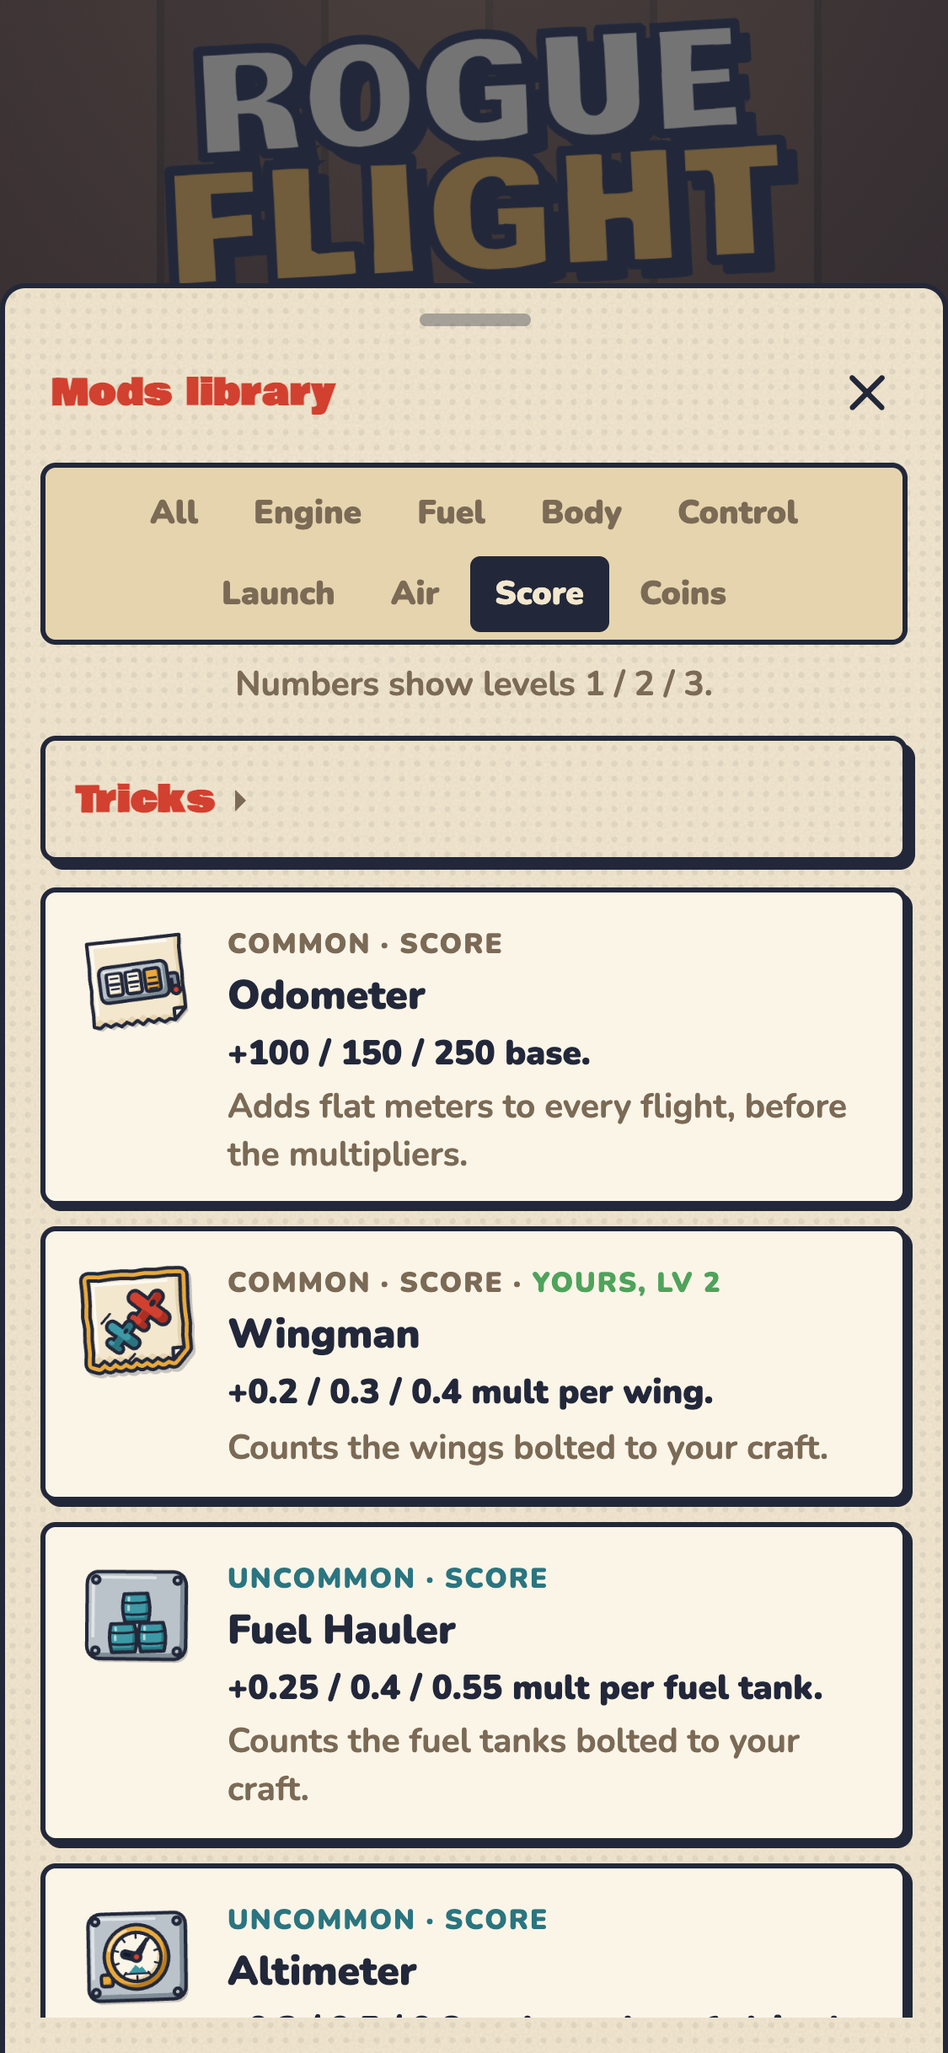
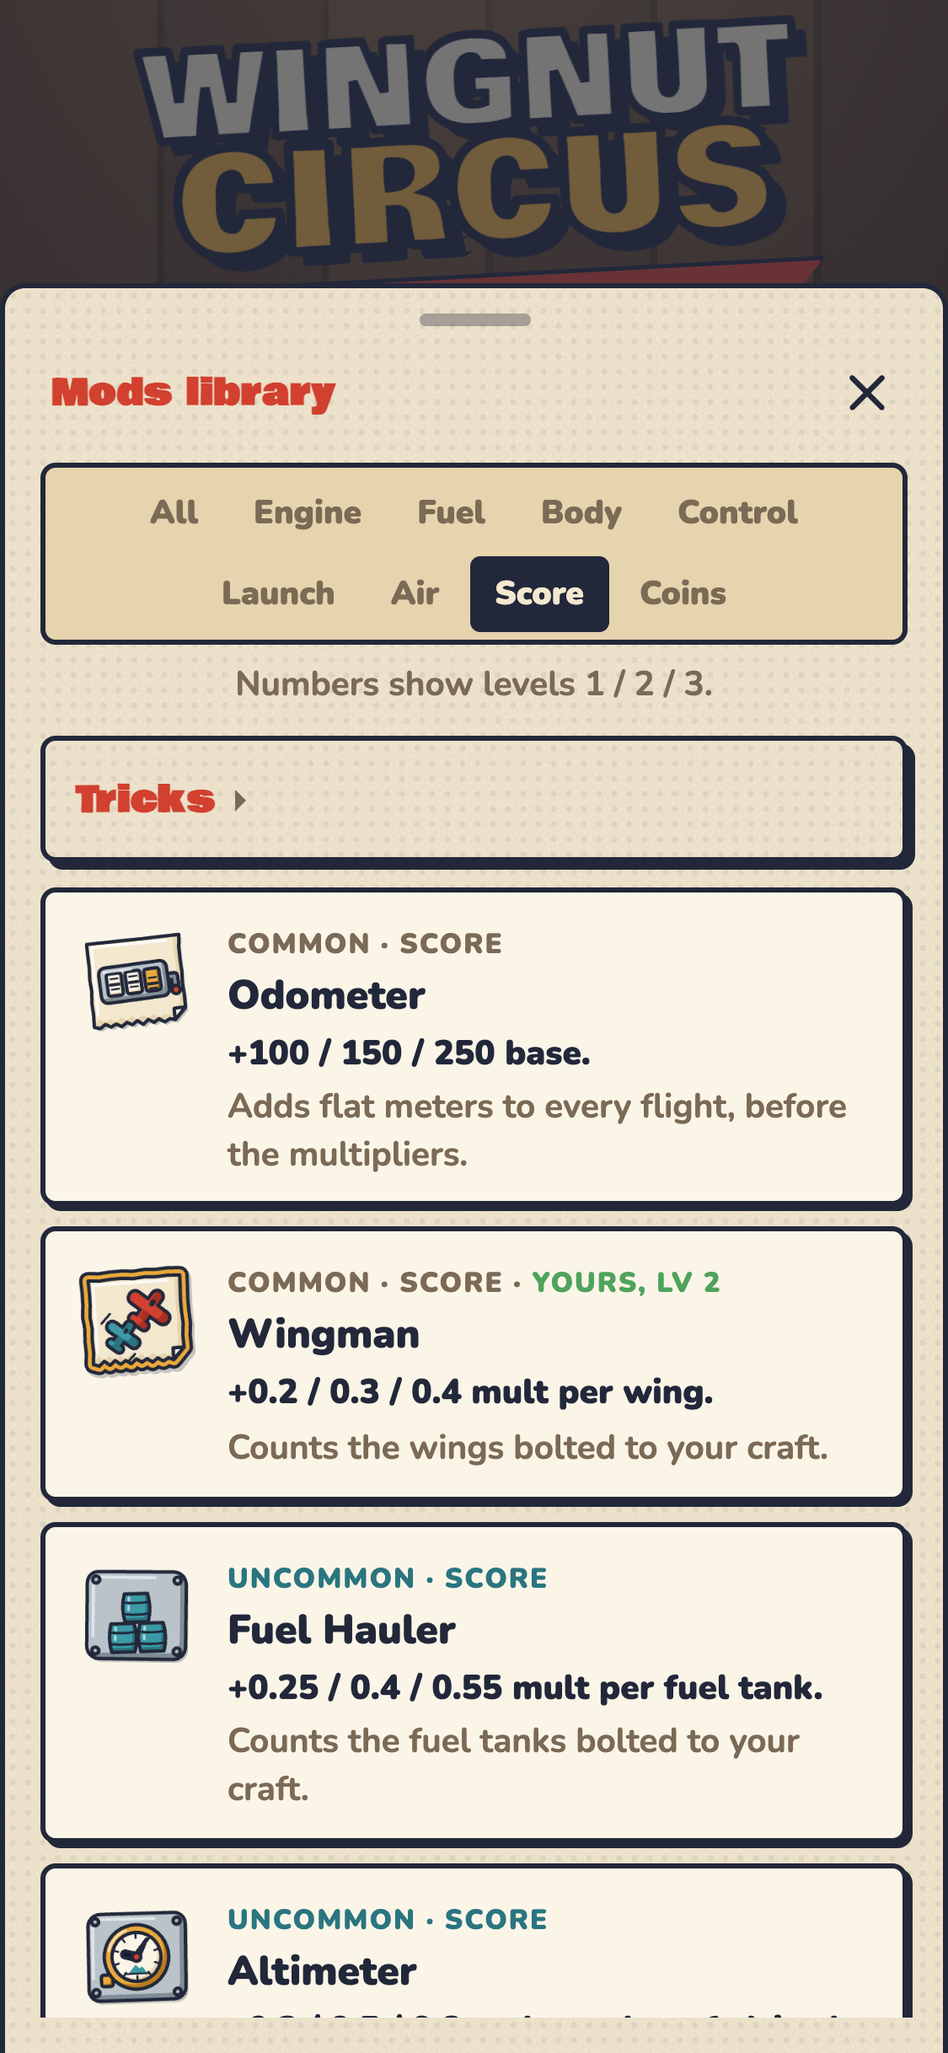
Rename to Wingnut Circus (0.3.0)
- new wordmark logo (WINGNUT / CIRCUS), page title, manifest, share text, itch cover and screenshots
- game server deployed as wingnutcircus-server; the old rogueflight-server stays up for older installs
- save hand-over for the coming domain move (MOVED in ui.js, #move= fragment import)
- storage keys, D1 database and Pages project keep the rogueflight id so saves and data carry over

Changed region(s): [[0.1244, 0.0, 0.8711, 0.156]]

diff --git a/client/src/ui.js b/client/src/ui.js
@@ -1,4 +1,4 @@
-// rogueflight UI: hangar (build / shop / mods), flight rendering + input, results and run screens.
+// Wingnut Circus UI: hangar (build / shop / mods), flight rendering + input, results and run screens.
 import {
   GIMBAL, NEUT, PAR, VAC, VAC2, C_LIGHT, G0, COLS,
   ROWS, COCKPIT, MAXMODS, FLIGHTS, CONTRACTS, FLIGHT_TIME, clamp, PARTS, PALETTE,
@@ -24,9 +24,14 @@ import { townOf, showTitle, headline } from './fiction.js';
 import { initGuide, openGuide } from './guide.js';
 
 /* ================= persistence ================= */
-const KEY='rogueflight-1';
+const KEY='rogueflight-1'; // storage keys keep the game's original id (RogueFlight) so saves survive the rename
 const META0={runs:0,wins:0,bestStage:0,bestFlight:0,deepest:0,level:0};
 // save.run: the main run; save.daily: a daily or random puzzle in progress; save.online: the run of the live room save.room
+// arriving from the old address (see MOVED): take over the save it handed over in the URL fragment, unless this
+// browser already has one here. The fragment never reaches any server.
+{const m=location.hash.match(/^#move=(.+)$/);if(m){try{const d=JSON.parse(decodeURIComponent(escape(atob(m[1]))));
+  for(const [k,v] of [[KEY,d.save],['rogueflight-client',d.client],['rogueflight-audio',d.audio]])if(v&&!localStorage.getItem(k))localStorage.setItem(k,v)}catch(_){}
+  history.replaceState(null,'',location.pathname+location.search)}}
 let save=(()=>{try{const s=JSON.parse(localStorage.getItem(KEY)||'null');if(s&&s.meta)return {meta:{...META0,...s.meta},run:s.run||null,daily:s.daily||null,online:s.online||null,room:s.room||null}}catch(e){}return {meta:{...META0},run:null,daily:null,online:null,room:null}})();
 if(save.daily&&save.daily.phase==='done')save.daily=null;
 function persist(){try{localStorage.setItem(KEY,JSON.stringify(save))}catch(e){}}
@@ -55,19 +60,21 @@ const metaOf=r=>r&&r.mode&&r.mode!=='run'?{bestStage:CONTRACTS,level:0}:save.met
 const esc=t=>String(t==null?'':t).replace(/[&<>"]/g,c=>({'&':'&amp;','<':'&lt;','>':'&gt;','"':'&quot;'}[c]));
 let armAbandon=false;
 function runCode(r){if(!r)return '';const L=t=>t==='cockpit'?'c':t[0];
-  return 'ROGUEFLIGHT '+JSON.stringify({lvl:r.level,cleared:r.stage,boons:r.boons||{},endless:!!r.endless,coins:r.coins,mods:r.mods.map(id=>{const L=modLevels(r)[id];return L>1?id+':'+L:id}),tune:r.tune,inv:r.inv,
+  return JSON.stringify({lvl:r.level,cleared:r.stage,boons:r.boons||{},endless:!!r.endless,coins:r.coins,mods:r.mods.map(id=>{const L=modLevels(r)[id];return L>1?id+':'+L:id}),tune:r.tune,inv:r.inv,
     cells:r.cells.map(c=>L(c.type)+c.c+c.r).join(' '),log:r.log.map(l=>[l.stage+1,l.flight,l.score,l.d,l.x,l.s||null]),ev:r.ev||[]})}
 // telemetry: after every flight and when a run ends, the run goes to /api/run (a Pages Function storing it in D1, one row
 // per run, updated in place) for balancing. Each flight carries a snapshot (build, score lines, height, speed, how it
 // ended); ev lists purchases, sales, rerolls, packs and storm rewards. Anonymous: a random id per browser and the run code.
 // Production builds only.
 // the game's home: copies hosted elsewhere (itch.io, a future app) send telemetry and invite links here
-const HOME='https://rogueflight.pages.dev', ATHOME=/(^|\.)rogueflight\.pages\.dev$|^localhost$|^127\.0\.0\.1$/.test(location.hostname);
+// MOVED: once the new domain serves the game, set it here; the old address then sends players over with their save
+const HOME='https://rogueflight.pages.dev', MOVED=null,
+  ATHOME=/(^|\.)rogueflight\.pages\.dev$|(^|\.)wingnutcircus\.com$|^localhost$|^127\.0\.0\.1$/.test(location.hostname);
 const homeURL=p=>(ATHOME?location.origin:HOME)+p;
 function clientId(){try{let id=localStorage.getItem('rogueflight-client');if(!id){id=Math.random().toString(36).slice(2)+Date.now().toString(36);localStorage.setItem('rogueflight-client',id)}return id}catch(_){return ''}}
 function reportRun(r,finished){
   if(!import.meta.env.PROD||!r||!r.log.length)return;
-  try{const data={...JSON.parse(runCode(r).slice('ROGUEFLIGHT '.length)),weather:r.weather,seed:r.seed};const mode=r.mode||'run';
+  try{const data={...JSON.parse(runCode(r)),weather:r.weather,seed:r.seed};const mode=r.mode||'run';
     // beacons cap at 64 KB: very long endless runs keep snapshots for their last 100 flights only
     if(JSON.stringify(data).length>55000)data.log=data.log.map((l,i,a)=>i<a.length-100?l.slice(0,5):l);
     const body=JSON.stringify({client:clientId(),run_id:clientId()+':'+mode+':'+r.seed,mode,version:__VERSION__+'+'+__BUILD__,level:r.level,cleared:r.stage,endless:!!r.endless,
@@ -908,7 +915,7 @@ function completeDaily(r){
   const m=save.meta;
   if(r.ranked){m.daily=m.daily||{};m.daily[r.day]={score:r.total};m.dailyEver=true;
     const keys=Object.keys(m.daily).map(Number).sort((a,b)=>b-a);for(const k of keys.slice(7))delete m.daily[k];
-    m.dailyPending={day:r.day,score:r.total,data:JSON.parse(runCode(r).slice('ROGUEFLIGHT '.length))}}
+    m.dailyPending={day:r.day,score:r.total,data:JSON.parse(runCode(r))}}
   persist();
 }
 // a ranked score waits in meta.dailyPending until the server has it (offline phones send it later)
@@ -1037,7 +1044,7 @@ function showLobby(){
     <button class="ghost" id="rLeave" type="button">Leave</button>`;
   veil.hidden=false;
   $('rShare').onclick=()=>{const b=$('rShare');const done=()=>{b.textContent='Link copied'};
-    try{if(navigator.share)navigator.share({title:'RogueFlight',text:'Fly with me! Room '+R0.code,url:link}).catch(()=>{});else navigator.clipboard.writeText(link).then(done,()=>{b.textContent=link})}catch(_){b.textContent=link}};
+    try{if(navigator.share)navigator.share({title:'Wingnut Circus',text:'Fly with me! Room '+R0.code,url:link}).catch(()=>{});else navigator.clipboard.writeText(link).then(done,()=>{b.textContent=link})}catch(_){b.textContent=link}};
   $('rMode').onclick=e=>{const b=e.target.closest('button');if(b&&host)NET.send({t:'mode',mode:b.dataset.m})};
   const nm=$('rName');nm.onchange=()=>{const n=nm.value.trim().slice(0,16);if(!n)return;save.meta.name=n;persist();NET.send({t:'hello',id:clientId(),name:n})};
   if($('rBot'))$('rBot').onclick=()=>NET.send({t:'addbot'});
@@ -1196,6 +1203,9 @@ syncSound();
 if(import.meta.env.DEV)window.__rf={F:()=>F,R,frame:n=>frame(n)};
 
 /* ================= boot ================= */
+// moving house: the old address sends players to the new one, carrying their save in the URL fragment
+if(MOVED&&location.hostname==='rogueflight.pages.dev'){let p='';try{p=btoa(unescape(encodeURIComponent(JSON.stringify({save:localStorage.getItem(KEY),
+  client:localStorage.getItem('rogueflight-client'),audio:localStorage.getItem('rogueflight-audio')}))))}catch(_){}location.replace(MOVED+'/'+location.search+(p?'#move='+p:''))}
 show('title');renderTitle();
 // an invite link (?room=CODE) drops straight into that room's lobby
 {const q=new URLSearchParams(location.search).get('room');if(q&&/^[A-Za-z]{4}$/.test(q)){history.replaceState(null,'',location.pathname);joinRoom(q.toUpperCase())}}

diff --git a/client/index.html b/client/index.html
@@ -3,8 +3,8 @@
 <head>
 <meta charset="utf-8">
 <meta name="viewport" content="width=device-width,initial-scale=1,viewport-fit=cover,user-scalable=no">
-<title>RogueFlight</title>
-<meta name="description" content="Roguelite flying-machine builder: build, fly, hit the quota.">
+<title>Wingnut Circus</title>
+<meta name="description" content="Wingnut Circus: bolt together a junk plane, fly it with honest physics, hit each town's score target. A roguelite for phones.">
 <meta name="theme-color" content="#33200f">
 <link rel="manifest" href="/manifest.webmanifest">
 <link rel="icon" href="/icons/favicon-32.png" type="image/png" sizes="32x32">
@@ -14,13 +14,13 @@
 <meta name="apple-mobile-web-app-capable" content="yes">
 <meta name="mobile-web-app-capable" content="yes">
 <meta name="apple-mobile-web-app-status-bar-style" content="black-translucent">
-<meta name="apple-mobile-web-app-title" content="RogueFlight">
+<meta name="apple-mobile-web-app-title" content="Wingnut Circus">
 </head>
 <body>
 <!-- ============ TITLE ============ -->
 <section class="screen barn" id="title">
   <div class="bench titlebench">
-    <div class="logo" role="img" aria-label="RogueFlight, the Flying Circus"><span class="l1">ROGUE</span><span class="l2">FLIGHT</span><span class="ribbon">The Flying Circus</span></div>
+    <div class="logo" role="img" aria-label="Wingnut Circus"><span class="l1">WINGNUT</span><span class="l2">CIRCUS</span><span class="ribbon">Build · Fly · Show off</span></div>
     <canvas id="titleCv" class="titlecv" aria-hidden="true"></canvas>
     <div id="titleBody" class="tbody"></div>
   </div>

diff --git a/client/src/style.css b/client/src/style.css
@@ -454,8 +454,8 @@ button:focus-visible{outline:3px solid var(--teal);outline-offset:2px}
 .titlebench{padding-top:calc(var(--reserve) + 18px)}
 .logo{display:grid;justify-items:center;transform:rotate(-3deg);margin:6px auto 0;position:relative}
 .logo .l1,.logo .l2{font-family:var(--display);line-height:.86;letter-spacing:.01em;-webkit-text-stroke:2px var(--ink)}
-.logo .l1{font-size:clamp(46px,15vw,72px);color:var(--paper);text-shadow:5px 5px 0 var(--ink)}
-.logo .l2{font-size:clamp(50px,16.5vw,80px);color:var(--brass);text-shadow:5px 5px 0 var(--ink);margin-top:-2px}
+.logo .l1{font-size:clamp(40px,12.6vw,62px);color:var(--paper);text-shadow:5px 5px 0 var(--ink)}
+.logo .l2{font-size:clamp(46px,14.8vw,72px);color:var(--brass);text-shadow:5px 5px 0 var(--ink);margin-top:-2px}
 .ribbon{margin-top:8px;font-family:var(--display);font-size:clamp(14px,4.4vw,19px);color:var(--paper);background:var(--red);border:var(--ol) solid var(--ink);padding:4px 26px 3px;
   clip-path:polygon(0 0,100% 0,94% 50%,100% 100%,0 100%,6% 50%);box-shadow:none;letter-spacing:.06em;text-shadow:2px 2px 0 rgba(34,40,58,.35)}
 .titlecv{width:100%;height:150px;display:block;margin:-6px auto -10px}

diff --git a/client/src/audio.js b/client/src/audio.js
@@ -1,4 +1,4 @@
-// RogueFlight sound: everything is synthesized with the Web Audio API (no samples, no libraries).
+// Wingnut Circus sound: everything is synthesized with the Web Audio API (no samples, no libraries).
 // Direction (docs/circus-style.md): a small swing/ragtime band, foley (wood, canvas, rope, tin, crowd),
 // a procedural engine and a three-note brass signature (G4 C5 E5, "ta-da-DAAH").
 //
@@ -9,7 +9,7 @@
 // Graph: voices -> sfx bus / music layers -> master (mute fader) -> headroom -> compressor -> limiter -> out.
 // The engine bus feeds the sfx bus. A short damped echo ("room slap") gives a little space; no reverb tail.
 
-const KEY = 'rogueflight-audio';
+const KEY = 'rogueflight-audio'; // storage keys keep the old project id so settings and saves survive the rename
 const DEV = !!(import.meta.env && import.meta.env.DEV);
 const W = typeof window !== 'undefined' ? window : null;
 const AC = W && (W.AudioContext || W.webkitAudioContext);

diff --git a/server/worker.js b/server/worker.js
@@ -1,4 +1,4 @@
-// rogueflight game server (Cloudflare Worker).
+// Wingnut Circus game server (Cloudflare Worker).
 //   GET  /health                      liveness, checks the Room Durable Object and D1
 //   GET  /daily?day=N&client=ID       daily puzzle leaderboard: top 20, total entries, the caller's rank
 //   POST /daily {day,client,name,score,data}   submit a daily score; only the first submission per client and day counts
@@ -30,7 +30,7 @@ export default {
       if (req.headers.get('Upgrade') !== 'websocket') return json({ error: 'expected a websocket' }, 426);
       return env.ROOMS.get(env.ROOMS.idFromName(m[1])).fetch(new Request(`https://room/${m[1]}`, req));
     }
-    return json({ name: 'rogueflight server' });
+    return json({ name: 'wingnut circus server' });
   },
 };
 

diff --git a/client/dev/audio.html b/client/dev/audio.html
@@ -3,7 +3,7 @@
 <head>
 <meta charset="utf-8">
 <meta name="viewport" content="width=device-width, initial-scale=1, viewport-fit=cover">
-<title>RogueFlight audio</title>
+<title>Wingnut Circus audio</title>
 <link rel="icon" href="data:,">
 <style>
   :root { --ink: #22283a; --paper: #f3e7ce; --paper2: #e6d4ae; --canvas: #fbf5e8; --red: #d2402f; --brass: #e9a93b; --teal: #3b9aa6; }
@@ -30,7 +30,7 @@
 </style>
 </head>
 <body>
-<h1>RogueFlight audio</h1>
+<h1>Wingnut Circus audio</h1>
 <p>Any tap unlocks audio. Context: <span id="state">locked</span></p>
 <label><input type="checkbox" id="mute"> Mute (persisted)</label>
 <label><span>Music volume</span><input type="range" id="vmusic" min="0" max="1" step="0.01"><output></output></label>

diff --git a/client/dev/cover.html b/client/dev/cover.html
@@ -15,8 +15,8 @@
     padding:6px 14px;box-shadow:4px 4px 0 #22283a;transform:rotate(2deg)}
 </style>
 <div id="cover"><canvas id="c"></canvas>
-  <div class="logo"><span class="l1">ROGUE</span><span class="l2">FLIGHT</span><span class="ribbon">The Flying Circus</span></div>
-  <div class="tag">Build · Fly · Beat the target</div>
+  <div class="logo"><span class="l1">WINGNUT</span><span class="l2">CIRCUS</span><span class="ribbon">Build · Fly · Show off</span></div>
+  <div class="tag">A junk-plane roguelite with a goat pilot</div>
 </div>
 <script type="module">
 import '@fontsource/bowlby-one/400';

diff --git a/client/src/net.js b/client/src/net.js
@@ -1,5 +1,5 @@
 // Talking to the game server (server/worker.js): the daily puzzle leaderboard and live rooms over a WebSocket.
-const SERVER = (import.meta.env.VITE_SERVER || 'https://rogueflight-server.thomaswi1998.workers.dev').replace(/\/$/, '');
+const SERVER = (import.meta.env.VITE_SERVER || 'https://wingnutcircus-server.thomaswi1998.workers.dev').replace(/\/$/, '');
 
 async function api(path, body) {
   const res = await fetch(SERVER + path, body ? { method: 'POST', headers: { 'content-type': 'application/json' }, body: JSON.stringify(body) } : {});

diff --git a/client/src/sim.js b/client/src/sim.js
@@ -1,4 +1,4 @@
-// rogueflight simulation core: pure game logic, no DOM.
+// Wingnut Circus simulation core: pure game logic, no DOM.
 // Physics (step), craft assembly (makeCraft), scoring (scoreFlight), economy and run state (newRun, settleFlight).
 // Imported by the browser UI (ui.js) and by the node tests/tools, so keep it free of window/document.
 const GIMBAL=.4, NEUT=.8, PAR=.0016, VAC=.002, VAC2=1.5e-4, C_LIGHT=299792458, G0=9.81, COLS=7, ROWS=5, COCKPIT={c:2,r:2};

diff --git a/client/public/sw.js b/client/public/sw.js
@@ -1,7 +1,7 @@
 // Network-first service worker: always try the network so a fresh deploy shows up on the next launch,
 // and fall back to the cache so the game still opens offline once it has been loaded once.
 // Bump CACHE to drop everything cached by older versions.
-const CACHE = 'rogueflight-v3';
+const CACHE = 'wingnutcircus-v1';
 
 self.addEventListener('install', () => self.skipWaiting());
 

diff --git a/CLAUDE.md b/CLAUDE.md
@@ -1,10 +1,12 @@
-# rogueflight
+# Wingnut Circus
 
 Roguelite flying-machine builder for phones. Build a craft on a 7×5 grid (Bad Piggies style), launch it, fly it with simple but honest physics, and hit escalating score quotas across 8 contracts per run (Slay the Spire / CloverPit structure). Plain JS + Vite, no framework. Installed and played as a PWA, deployed on Cloudflare Pages.
 
 Visual identity: **The Flying Circus**. A broke barnstorming troupe tours eight towns per season in a junk plane flown by a goat; every flight is a show and the score is the crowd. Read `docs/circus-style.md` before drawing or styling anything. Labels and rules use plain game terms (Run, Contract, Flight, Score, Target, Coins, Shop, Packs, Mods, Tuning, Storm reward, Difficulty, Endless); the fiction stays in visuals, town names and headlines.
 
-The game was prototyped as a single-file Claude artifact under the working title **Skyward** and ported here. Old run codes from the prototype start with `SKYWARD ` instead of `ROGUEFLIGHT `.
+The game was prototyped as a single-file Claude artifact under the working title **Skyward**, then shipped as **RogueFlight** and renamed **Wingnut Circus** on 2026-10-11 (an existing console game is called Rogue Flight). Technical ids still say `rogueflight` on purpose: the repo folder, localStorage keys (`rogueflight-1`, `rogueflight-client`, `rogueflight-audio`, so saves survive), the D1 database `rogueflight`, the Cloudflare Pages project `rogueflight` (rogueflight.pages.dev) and the old Worker `rogueflight-server` (kept running for installed copies of older builds). Player-facing text, the logo, page title, manifest, game server (`wingnutcircus-server`) and store assets use the new name.
+
+Moving to a new domain: set `MOVED` in ui.js to the new origin; rogueflight.pages.dev then redirects there with the save in the URL fragment (`#move=`), which the new origin imports if it has no save yet. Add the new host to `ATHOME` and `HOME`.
 
 ## Commands
 
@@ -16,7 +18,7 @@ npm run bot -- 20 climb --seed=1   # balance harness: 20 scripted runs (policies
                                    #   --storm=<weather id>|none forces one storm onto contracts 3, 6, 8; --ceiling=N)
 npm run build     # -> dist/
 npm run preview   # serve dist/ (service worker only registers in production builds)
-npm run build:itch   # itch.io HTML5 build -> rogueflight-itch.zip (relative paths, no service worker; telemetry and invite links point to rogueflight.pages.dev)
+npm run build:itch   # itch.io HTML5 build -> wingnutcircus-itch.zip (relative paths, no service worker; telemetry and invite links point to HOME in ui.js)
 ITCH_USER=<name> npm run itch:push   # build and upload to itch.io with butler (needs `butler login` once), tagged with package.json version
 npx wrangler deploy --config server/wrangler.toml   # deploy the game server (daily leaderboard + live rooms)
 ```
@@ -45,7 +47,7 @@ tests/sim.test.js        headless sim checks (no browser)
 functions/api/run.js     Pages Function storing finished runs in D1 (schema.sql)
 client/src/net.js        client side of the game server: daily leaderboard fetches, room WebSocket with auto-reconnect
 client/src/bots.js       pure: Elimination bots (craft, tunings, pilot) seeded by room seed, round and bot number
-server/worker.js         game server Worker (rogueflight-server.thomaswi1998.workers.dev): /daily leaderboard in D1, Room Durable Object for live rooms
+server/worker.js         game server Worker (wingnutcircus-server.thomaswi1998.workers.dev): /daily leaderboard in D1, Room Durable Object for live rooms
 server/wrangler.toml     its config: Durable Object ROOMS (class Room), D1 binding DB
 tools/bot.js             balance harness (scripted shopper, builder, pilot), prints contracts reached and per-contract score spread
 ```
@@ -100,7 +102,7 @@ Code style is dense (many one-line functions, short names: `S` flight state, `K`
 - **Fair randomness.** Bad luck is fine when it punishes a risk the player could see; it is unfair when hidden or unavoidable. Hence storms are revealed at run start. Ask "could the player have seen it and responded?" before adding random modifiers.
 - Mobile portrait, played one-handed in short sessions. Respect safe areas (`--reserve` = `env(safe-area-inset-top)`).
 - Telemetry: production builds POST the run to `/api/run` after every flight and when it ends (one row per run, upserted by `run_id` = client:mode:seed, with `mode`, `flights`, `finished`). Each log entry carries a snapshot `s` (mods with levels, tunings, cells, score lines, max height, top speed in km/h, how it ended, fuel, coins) and `run.ev` notes buys, sells, rerolls, packs and storm rewards as `[kind, contract, flight, ...]`. `functions/api/run.js` (a Pages Function) stores it in D1 (binding `DB`, schema in `schema.sql`; see README for setup). Anonymous: a random per-browser id plus the run code. Without the binding the endpoint accepts and drops runs. Set up on 2026-10-10 (D1 database `rogueflight`, binding `DB` on Production); row 1 is a `setup-test` row.
-- Balance feedback: every finished run is in D1 (`runs.data`, daily puzzles in `daily_scores.data`); the in-game "Copy run" buttons were removed. The run code (`runCode` in ui.js) is `ROGUEFLIGHT {json}` (prototype codes: `SKYWARD {json}`) with mods (`id:level` above Lv 1), tune, inv, a compact cells string (`c22 p32 …` = type initial + column + row), and a log of `[contract, flight, score, distance, mult]`.
+- Balance feedback: every finished run is in D1 (`runs.data`, daily puzzles in `daily_scores.data`); the in-game "Copy run" buttons were removed. The run code (`runCode` in ui.js) is JSON with mods (`id:level` above Lv 1), tune, inv, a compact cells string (`c22 p32 …` = type initial + column + row), and a log of `[contract, flight, score, distance, mult]`.
 
 ## Balance notes
 - The bot starts from the universal start, opens its packs and shops before every flight, and picks its layout by test-flying variants of its inventory in the forecast weather. Pilots press buttons like a player (pitch −1/0/+1, re-decided every 0.2 s). `climb` waits for flying speed, climbs at about 35° under power, then glides hands-off, using full or 60% throttle (whichever tested better for the build). That is how a good human flies. `hands` is the old weak baseline. `--seed=N` makes runs repeatable, so compare balance changes with the same seed.

diff --git a/README.md b/README.md
@@ -1,6 +1,6 @@
-# rogueflight
+# Wingnut Circus
 
-A roguelite flying-machine builder for your phone. Buy parts, bolt them onto a grid, launch, and fly far enough to hit each contract's score quota. Eight contracts per run, three flights each.
+A roguelite flying-machine builder for your phone (formerly RogueFlight). Buy parts, bolt them onto a grid, launch, and fly far enough to hit each contract's score quota. Eight contracts per run, three flights each.
 
 ## Develop
 
